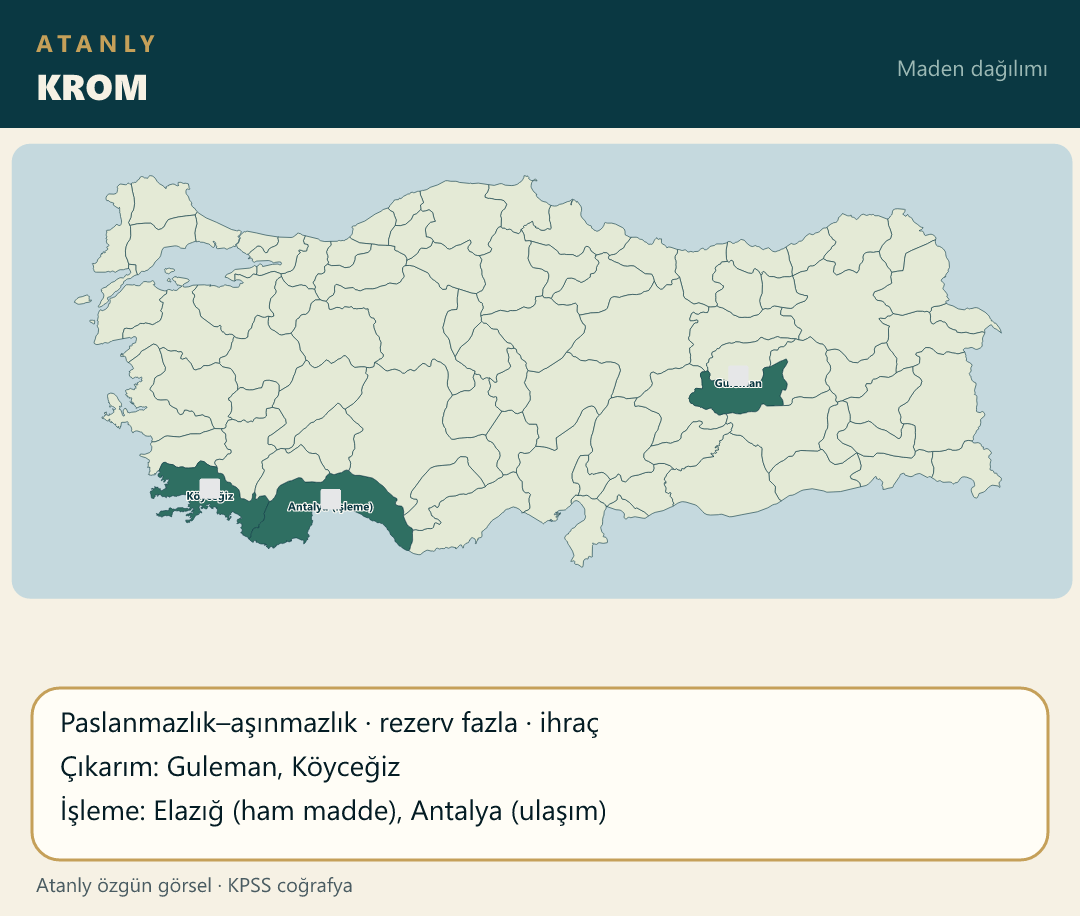
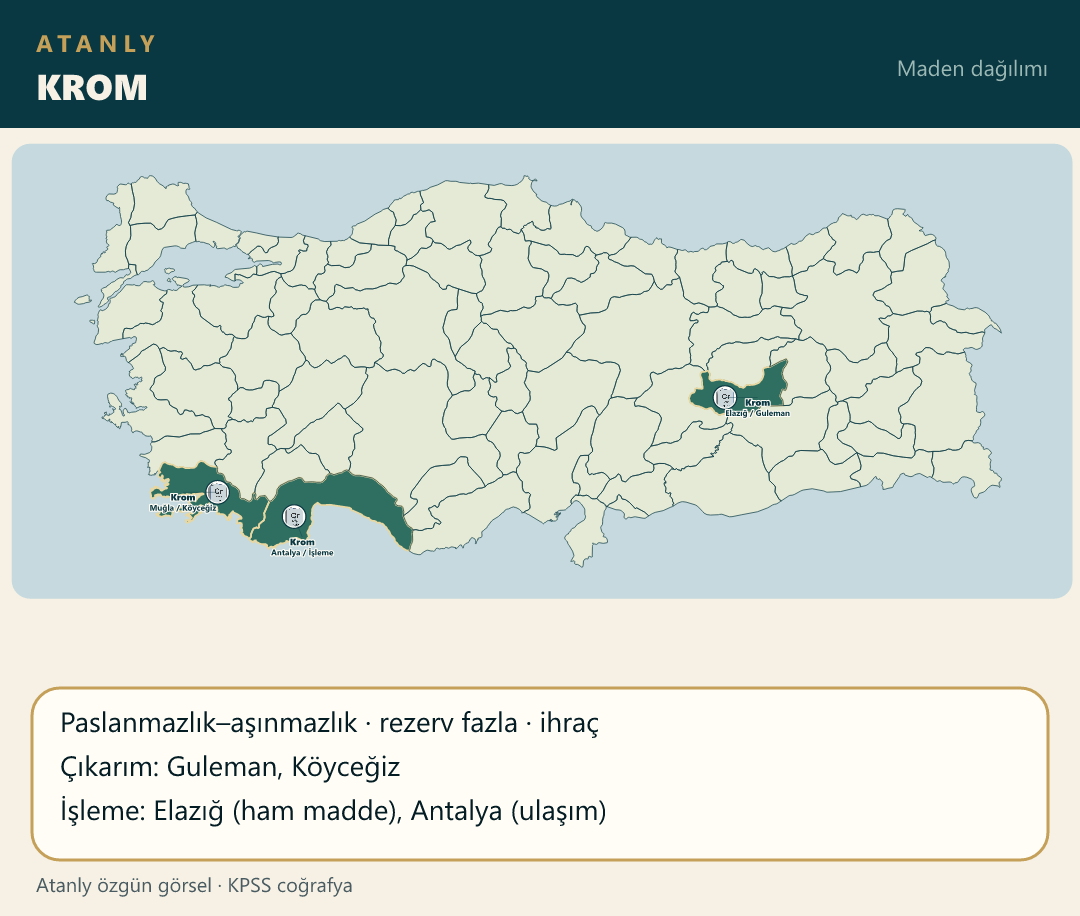
Place the chromium tile on Elazığ, Muğla and Antalya land-center pins.

Changed region(s): [[0.1222, 0.4891, 0.3972, 0.6114], [0.6417, 0.3668, 0.7333, 0.4585]]

diff --git a/scripts/build-atanly-maps.js b/scripts/build-atanly-maps.js
@@ -1010,8 +1010,12 @@ function main() {
                 { il: "Konya", ilce: "Seydişehir", ldx: 40, ldy: -10 }
             ],
             facts: ["Çıkarım: Akseki ve Seydişehir", "İşleme: Seydişehir"] },
-        { file: "maden_krom.png", title: "KROM", iller: ["Elazığ", "Muğla", "Antalya"],
-            yazilar: ["Guleman", "Köyceğiz", "Antalya (işleme)"],
+        { file: "maden_krom.png", title: "KROM", urun: "Krom",
+            noktalar: [
+                { il: "Elazığ", ilce: "Guleman", ldx: 32, ldy: 8 },
+                { il: "Muğla", ilce: "Köyceğiz", ldx: -34, ldy: 8 },
+                { il: "Antalya", ilce: "İşleme", ldx: 8, ldy: 28 }
+            ],
             facts: ["Paslanmazlık–aşınmazlık · rezerv fazla · ihraç", "Çıkarım: Guleman, Köyceğiz", "İşleme: Elazığ (ham madde), Antalya (ulaşım)"] },
         { file: "maden_barit.png", title: "BARİT", urun: "Barit",
             noktalar: [

diff --git a/notlar/cografya-21-not.js b/notlar/cografya-21-not.js
@@ -2,7 +2,7 @@
 (function () {
     function harita(src, alt) {
         return '<div class="mt-4 overflow-hidden rounded-xl border border-blue-200 dark:border-blue-700/50 bg-white dark:bg-slate-800 p-2">' +
-            '<img src="./src/img/' + src + '?v=24" alt="' + alt + ' Haritası" class="w-full h-auto rounded-lg object-contain" loading="lazy">' +
+            '<img src="./src/img/' + src + '?v=25" alt="' + alt + ' Haritası" class="w-full h-auto rounded-lg object-contain" loading="lazy">' +
             "</div>";
     }
 

diff --git a/index.html b/index.html
@@ -119,7 +119,7 @@
     <script src="notlar/cografya-18-not.js?v=17"></script>
     <script src="notlar/cografya-19-not.js?v=25"></script>
     <script src="notlar/cografya-20-not.js?v=1"></script>
-    <script src="notlar/cografya-21-not.js?v=17"></script>
+    <script src="notlar/cografya-21-not.js?v=18"></script>
     <script src="notlar/cografya-22-not.js?v=1"></script>
     <script src="notlar/cografya-23-not.js?v=1"></script>
     <script src="notlar/cografya-24-not.js?v=1"></script>
